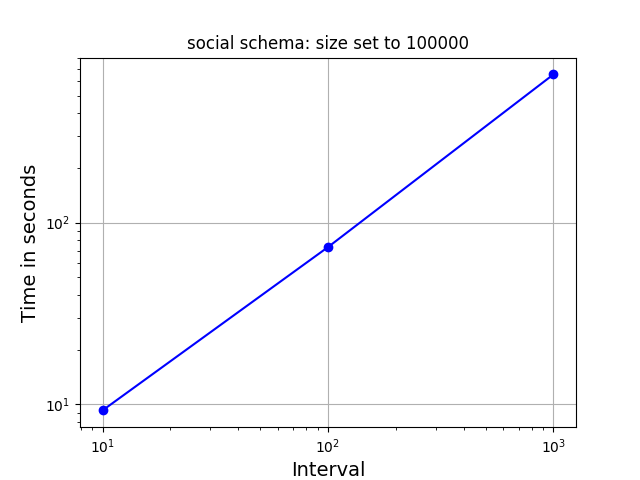
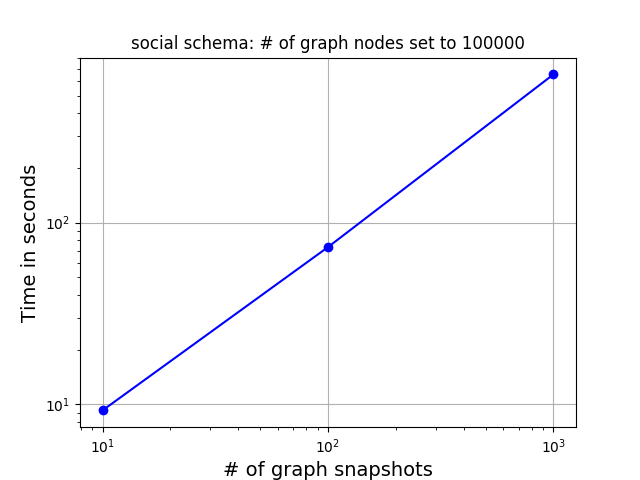
up scalability

Changed region(s): [[0.2188, 0.0625, 0.8125, 0.125], [0.3438, 0.9688, 0.6875, 1.0]]

diff --git a/demo/scalability/plot_scal.py b/demo/scalability/plot_scal.py
@@ -34,16 +34,20 @@ with open (file+'.txt','r') as f:
 plt.plot(x,y,"bo-")
 
 if file_list[2] == "interval" :
-	plt.xlabel("Size", fontsize=14, color='black')
+	plt.xlabel("# of graph nodes", fontsize=14, color='black')
 else:
-	plt.xlabel("Interval", fontsize=14, color='black')
+	plt.xlabel("# of graph snapshots", fontsize=14, color='black')
 
 		
 plt.ylabel('Time in seconds', fontsize=14, color='black')
 plt.xscale("log", nonposx='clip')
 plt.yscale("log", nonposy='clip')
 plt.grid()
-plt.title(file_list[5]+" schema: "+file_list[2]+" set to "+file_list[4])
+if file_list[2] == "interval" :
+	plt.title(file_list[5]+" schema: "+"# of graph snapshots"+" set to "+file_list[4])
+else :
+	plt.title(file_list[5]+" schema: "+"# of graph nodes"+" set to "+file_list[4])
+
 plt.savefig(file_list[2]+"_"+file_list[5]+".png")
 plt.clf()
 
